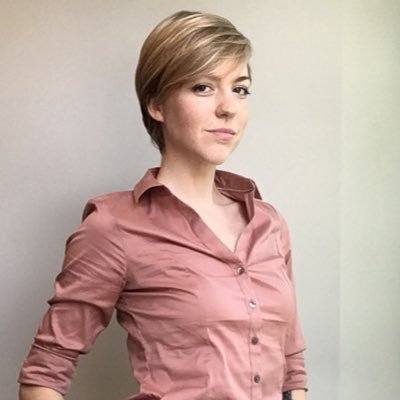
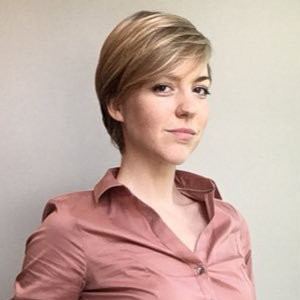
Crop headshot, update btn css

diff --git a/css/overwrites.css b/css/overwrites.css
@@ -4,24 +4,36 @@
   font-family: 'Raleway', sans-serif !important;
 }
 
+/* .btn.btn-primary::before {
+  position: absolute;
+  content: '';
+  height: calc(100% + 12px);
+  width: calc(100% + 12px);
+  top: -6px;
+  left: -6px;
+  border-width: 3px;
+  border-style: solid;
+  border-color: #940946;
+  border-radius: 8px;
+  transition: border-color .3s;
+} */
 .btn.btn-primary {
-  transition: background-color .3s, color .3s, border .3s;
-  border: 2px solid #940946;
+  position: relative;
+  transition: background-color .3s;
+  border: none;
 }
 h2.btn.btn-primary, h2.btn.btn-primary a {
-  transition: background-color .3s, color .3s, border .3s;
+  transition: background-color .3s;
   color: #fff;
 }
 .btn.btn-primary:active, .btn.btn-primary:hover, .btn.btn-primary:focus {
-  border: 2px solid #940946 !important;
-  color: #940946 !important;
-  background-color: #fff !important;
+  background-color: #580027 !important;
 }
-h2.btn.btn-primary:hover, h2.btn.btn-primary:hover a,
-h2.btn.btn-primary:active, h2.btn.btn-primary:active a,
-h2.btn.btn-primary:focus, h2.btn.btn-primary:focus a {
-  color: #940946 !important;
-}
+/* .btn.btn-prrimary:active::before,
+.btn.btn-primary:hover::before,
+.btn.btn-primary:focus::before {
+  border-color: #580027;
+} */
 
 #mainNav {
   transition: padding-top .6s, padding-bottom .6s;
@@ -79,39 +91,20 @@ header.masthead .intro-text .intro-heading {
   content: ' | ';
   color: #580027;
 }
-/* .intro-text .headshot .img-container {
-  margin: auto;
-  margin-top: 25px;
-  position: relative;
-  width: 300px;
-}
-.intro-text .headshot .img-border {
-  position: absolute;
-  border-radius: 50%;
-  height: 300px;
-  top: 0;
-  left: 0;
-  width: 100%;
-  background-color: #580027;
-  border-width: 10px;
-  border-style: solid;
-  border-color: #580027;
-  opacity: 0;
-} */
 .intro-text .headshot img {
   border-radius: 50%;
   height: 250px;
   margin-top: 50px;
-  /* position: absolute;
-  top: 0;
-  left: 0; */
-  border-width: 7px;
+  /* border-width: 8px;
   border-style: solid;
   border-color: #580027;
-  transition: border-color .6s;
+  transition: border-color .6s; */
+  /* box-shadow: 0px 0px 16px 2px rgba(88, 0, 39, 1);
+  transition: box-shadow .6s;
 }
 #mainNav.navbar-shrink + .masthead .headshot img {
-  border-color: #940946;
+  box-shadow: 0px 0px 8px 4px rgba(88, 0, 39, 0); */
+  /* border-color: #940946; */
 }
 
 .text-muted {
@@ -232,6 +225,7 @@ section.bg-light {
 }
 
 #resume .btn {
+  margin-top: 25px;
   margin-bottom: 50px;
 }
 
@@ -299,55 +293,21 @@ ul.timeline li:last-of-type .timeline-image {
 }
 
 footer ul.social-buttons li a {
-  line-height: unset;
   border-radius: 50%;
   height: 50px;
   width: 50px;
-  transition: none !important;
-  background-color: #fff;
-  position: relative;
-  padding: 6px;
-  box-sizing: content-box;
-  border: 2px solid #fff;
-  transition: border .3s !important;
-}
-/* footer ul.social-buttons li a.active, */
-footer ul.social-buttons li a:hover,
-footer ul.social-buttons li a:active,
-footer ul.social-buttons li a:focus {
   background-color: #fff !important;
-  border: 2px solid #940946;
 }
 footer ul.social-buttons svg {
-  position: relative;
-  z-index: 1;
+  transition: color .3s;
   color: #940946;
   height: 100%;
-  transition: color .3s;
 }
-/* footer ul.social-buttons li a.active svg, */
 footer ul.social-buttons li a:hover svg,
 footer ul.social-buttons li a:active svg,
 footer ul.social-buttons li a:focus svg {
-  color: #fff;
-}
-a .svg-background {
-  height: 43px;
-  width: 43px;
-  position: absolute;
-  top: 50%;
-  left: 50%;
-  transform: translate(-50%, -50%);
-  z-index: 0;
-  border-radius: 50%;
-  background-color: #fff;
-  transition: background-color .3s;
-}
-/* a.active .svg-background, */
-a:hover .svg-background,
-a:active .svg-background,
-a:focus .svg-background {
-  background-color: #940946;
+  color: #580027;
+  cursor: pointer;
 }
 
 @media (min-width: 992px) {
@@ -389,19 +349,13 @@ a:focus .svg-background {
     font-size: 30px;
     margin-bottom: 15px;
   }
-  /* .intro-text .headshot .img-container, */
-  /* .intro-text .headshot .img-border, */
   .intro-text .headshot img {
     height: 200px;
     margin-top: 25px;
-    /* width: 200px; */
   }
 }
 @media (max-height:450px) {
-  /* .intro-text .headshot .img-container,
-  .intro-text .headshot .img-border, */
   .intro-text .headshot img {
     height: 0px;
-    /* width: 0px; */
   }
 }

diff --git a/index.html b/index.html
@@ -312,7 +312,6 @@
                 <svg aria-hidden="true" focusable="false" data-prefix="fab" data-icon="github" class="svg-inline--fa fa-github fa-w-16" role="img" xmlns="http://www.w3.org/2000/svg" viewBox="0 0 496 512">
                   <path fill="currentColor" d="M165.9 397.4c0 2-2.3 3.6-5.2 3.6-3.3.3-5.6-1.3-5.6-3.6 0-2 2.3-3.6 5.2-3.6 3-.3 5.6 1.3 5.6 3.6zm-31.1-4.5c-.7 2 1.3 4.3 4.3 4.9 2.6 1 5.6 0 6.2-2s-1.3-4.3-4.3-5.2c-2.6-.7-5.5.3-6.2 2.3zm44.2-1.7c-2.9.7-4.9 2.6-4.6 4.9.3 2 2.9 3.3 5.9 2.6 2.9-.7 4.9-2.6 4.6-4.6-.3-1.9-3-3.2-5.9-2.9zM244.8 8C106.1 8 0 113.3 0 252c0 110.9 69.8 205.8 169.5 239.2 12.8 2.3 17.3-5.6 17.3-12.1 0-6.2-.3-40.4-.3-61.4 0 0-70 15-84.7-29.8 0 0-11.4-29.1-27.8-36.6 0 0-22.9-15.7 1.6-15.4 0 0 24.9 2 38.6 25.8 21.9 38.6 58.6 27.5 72.9 20.9 2.3-16 8.8-27.1 16-33.7-55.9-6.2-112.3-14.3-112.3-110.5 0-27.5 7.6-41.3 23.6-58.9-2.6-6.5-11.1-33.3 2.6-67.9 20.9-6.5 69 27 69 27 20-5.6 41.5-8.5 62.8-8.5s42.8 2.9 62.8 8.5c0 0 48.1-33.6 69-27 13.7 34.7 5.2 61.4 2.6 67.9 16 17.7 25.8 31.5 25.8 58.9 0 96.5-58.9 104.2-114.8 110.5 9.2 7.9 17 22.9 17 46.4 0 33.7-.3 75.4-.3 83.6 0 6.5 4.6 14.4 17.3 12.1C428.2 457.8 496 362.9 496 252 496 113.3 383.5 8 244.8 8zM97.2 352.9c-1.3 1-1 3.3.7 5.2 1.6 1.6 3.9 2.3 5.2 1 1.3-1 1-3.3-.7-5.2-1.6-1.6-3.9-2.3-5.2-1zm-10.8-8.1c-.7 1.3.3 2.9 2.3 3.9 1.6 1 3.6.7 4.3-.7.7-1.3-.3-2.9-2.3-3.9-2-.6-3.6-.3-4.3.7zm32.4 35.6c-1.6 1.3-1 4.3 1.3 6.2 2.3 2.3 5.2 2.6 6.5 1 1.3-1.3.7-4.3-1.3-6.2-2.2-2.3-5.2-2.6-6.5-1zm-11.4-14.7c-1.6 1-1.6 3.6 0 5.9 1.6 2.3 4.3 3.3 5.6 2.3 1.6-1.3 1.6-3.9 0-6.2-1.4-2.3-4-3.3-5.6-2z"></path>
                 </svg>
-                <div class="svg-background"></div>
               </a>
             </li>
             <li class="list-inline-item">
@@ -321,7 +320,6 @@
                 <svg aria-hidden="true" focusable="false" data-prefix="fab" data-icon="linkedin" class="svg-inline--fa fa-linkedin fa-w-14" role="img" xmlns="http://www.w3.org/2000/svg" viewBox="0 0 448 512">
                   <path fill="currentColor" d="M416 32H31.9C14.3 32 0 46.5 0 64.3v383.4C0 465.5 14.3 480 31.9 480H416c17.6 0 32-14.5 32-32.3V64.3c0-17.8-14.4-32.3-32-32.3zM135.4 416H69V202.2h66.5V416zm-33.2-243c-21.3 0-38.5-17.3-38.5-38.5S80.9 96 102.2 96c21.2 0 38.5 17.3 38.5 38.5 0 21.3-17.2 38.5-38.5 38.5zm282.1 243h-66.4V312c0-24.8-.5-56.7-34.5-56.7-34.6 0-39.9 27-39.9 54.9V416h-66.4V202.2h63.7v29.2h.9c8.9-16.8 30.6-34.5 62.9-34.5 67.2 0 79.7 44.3 79.7 101.9V416z"></path>
                 </svg>
-                <div class="svg-background"></div>
               </a>
             </li>
           </ul>
@@ -358,12 +356,12 @@
         function () { $(this).html('prototyping products').css('color', 'unset') }
       );
 
-      $('.social-buttons li a').hover(function() {
-        let that = this;
-        setTimeout (function () {
-          $(that).addClass('active');
-        }, 3000);
-      });
+      // $('.social-buttons li a').hover(function() {
+      //   let that = this;
+      //   setTimeout (function () {
+      //     $(that).addClass('active');
+      //   }, 3000);
+      // });
     })();
   </script>
 
